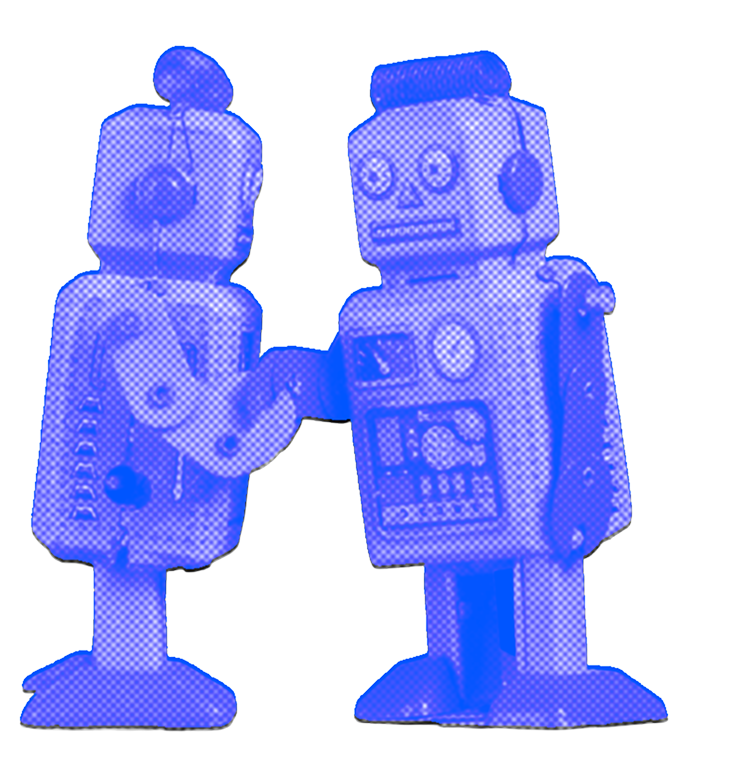
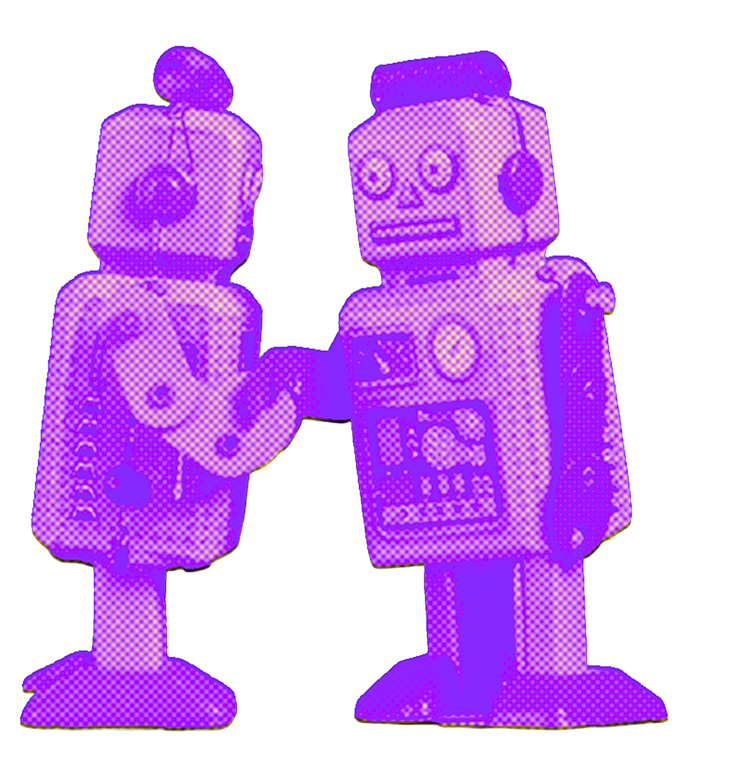
fix: flutter landing page colours to match the revised design
The port inherited droidcon's palette in several places. Against the
flutter frames:

- Dark backgrounds were inconsistent: the `dark` token was still the
  pre-rebrand #20201E, so sections using dark:bg-dark rendered charcoal
  next to the pure-black ones. Now #000000, matching droidconKE.
- About stats panel and the Developer Days card invert between themes —
  black with magenta figures in light, magenta with black/white in dark.
- Beyond the Sessions heading is white, not the accent colour.
- Past events header is a magenta card with a white heading, not blue
  with an accent heading.
- Community Partners heading is black, not blue.
- Conf. Essentials icons recoloured from droidcon green to #F73EDE.
- Sponsor tier dividers used border-green-500, but this repo has no
  green ramp, so it silently fell back to Tailwind's default green.
  Now border-accent. The green in the frames is a design glitch.
- Stat cards had a vertical divider that the design does not have.

Adds magenta halftones for the robots and astronauts, and a pink KICC
for the dark-mode footer. Those three files now differ from droidconKE
and must not be copied between repos.

diff --git a/components/home/SponsorsList.tsx b/components/home/SponsorsList.tsx
@@ -113,7 +113,7 @@ function SponsorsList({
         <div className="flex flex-col w-full">
           {/* Platinum Tier */}
           {platinumSponsors.length > 0 && (
-            <div className="flex flex-col items-center gap-4 border-t border-dotted border-green-500 pt-8 pb-10">
+            <div className="flex flex-col items-center gap-4 border-t border-dotted border-accent pt-8 pb-10">
               <h3 className="text-black dark:text-white text-lg md:text-xl font-semibold mb-2 capitalize">
                 Platinum
               </h3>
@@ -131,7 +131,7 @@ function SponsorsList({
 
           {/* Gold Tier */}
           {goldSponsors.length > 0 && (
-            <div className="flex flex-col items-center border-t border-dotted border-green-500 pt-8 pb-10 w-full">
+            <div className="flex flex-col items-center border-t border-dotted border-accent pt-8 pb-10 w-full">
               <h3 className="text-black dark:text-white text-lg md:text-xl font-semibold mb-4 capitalize">
                 Gold
               </h3>
@@ -154,7 +154,7 @@ function SponsorsList({
 
           {/* Everything else — silver, then bronze, then snack */}
           {remainingSponsors.length > 0 && (
-            <div className="flex flex-wrap justify-center gap-6 w-full border-t border-dotted border-green-500 pt-8 pb-10">
+            <div className="flex flex-wrap justify-center gap-6 w-full border-t border-dotted border-accent pt-8 pb-10">
               {remainingSponsors.map((sponsor) => (
                 <div
                   key={sponsor.name}
@@ -173,7 +173,7 @@ function SponsorsList({
             </div>
           )}
 
-          <div className="flex justify-center border-t border-dotted border-green-500 pt-10">
+          <div className="flex justify-center border-t border-dotted border-accent pt-10">
             <Link href="/sponsors" className="btn-accent whitespace-nowrap">
               SPONSOR FLUTTERCONKE
             </Link>

diff --git a/components/home/About.tsx b/components/home/About.tsx
@@ -13,7 +13,7 @@ const About = () => {
       <div className="flex flex-col md:flex-row w-full rounded-3xl overflow-hidden shadow-xl">
         {/* Left Column (Blue) */}
         <div className="w-full md:w-[55%] bg-primary p-8 md:p-10 lg:p-12 flex flex-col justify-center">
-          <h2 className="text-accent text-5xl md:text-7xl font-display leading-none mb-8">
+          <h2 className="text-accent dark:text-white text-5xl md:text-7xl font-display leading-none mb-8">
             About
             <br />
             FlutterconKE
@@ -31,19 +31,21 @@ const About = () => {
           </p>
         </div>
 
-        {/* Right Column (Accent) — 2x2 split by hairlines */}
-        <div className="w-full md:w-[45%] bg-accent grid grid-cols-2">
+        {/* Right Column — 2x2 split by blue hairlines. Inverts between themes
+            in the design: black panel with magenta figures in light, magenta
+            panel with white figures in dark. */}
+        <div className="w-full md:w-[45%] bg-black-dark dark:bg-accent grid grid-cols-2">
           {statsBoxes.map((box, index) => (
             <div
               key={box.value}
               className={`p-6 md:p-8 lg:p-10 flex flex-col justify-center ${
-                index % 2 === 0 ? 'border-r border-primary' : ''
-              } ${index < 2 ? 'border-b border-primary' : ''}`}
+                index < 2 ? 'border-b border-primary' : ''
+              }`}
             >
-              <div className="text-primary text-3xl md:text-5xl lg:text-6xl font-display mb-2">
+              <div className="text-accent dark:text-white text-3xl md:text-5xl lg:text-6xl font-display mb-2">
                 {box.value}
               </div>
-              <div className="text-primary text-[10px] md:text-xs uppercase">
+              <div className="text-accent dark:text-white text-[10px] md:text-xs uppercase">
                 {box.label}
               </div>
             </div>

diff --git a/components/home/ConfHighlights.tsx b/components/home/ConfHighlights.tsx
@@ -9,7 +9,7 @@ const highlights = [
     image: '/images/new-design/revised/beyond-sessions.png',
     imageAlt: 'Two toy robots shaking hands',
     cardClass: 'bg-primary',
-    titleClass: 'text-accent',
+    titleClass: 'text-white dark:text-white',
     // Card colours are fixed in both themes, so dark: variants pin the text
     // against the global `p` rule.
     bodyClass: 'text-white dark:text-white',
@@ -21,9 +21,11 @@ const highlights = [
     body: 'Level up across two days of hardcore Flutter and Dart sessions. From cross-platform performance to AI agents and tooling, get real-world insights from top-tier engineers shaping the ecosystem.',
     image: '/images/new-design/revised/dev-days.png',
     imageAlt: 'Two astronauts holding hands',
-    cardClass: 'bg-accent',
-    titleClass: 'text-primary',
-    bodyClass: 'text-black dark:text-black',
+    // Inverts between themes in the design: black card with a magenta
+    // heading in light, magenta card with a black heading in dark.
+    cardClass: 'bg-black-dark dark:bg-accent',
+    titleClass: 'text-accent dark:text-black',
+    bodyClass: 'text-white dark:text-black',
     imageFirst: true,
   },
 ]

diff --git a/components/home/Gallery.tsx b/components/home/Gallery.tsx
@@ -31,13 +31,13 @@ export const Gallery = () => {
   return (
     <section className="s-container w-full h-auto bg-white dark:bg-black-dark py-10 md:py-20 transition-colors">
       {/* Header Block */}
-      <div className="w-full bg-primary dark:bg-primary-dark rounded-[20px] p-8 mb-12 md:mb-16">
+      <div className="w-full bg-accent dark:bg-accent-dark rounded-[20px] p-8 mb-12 md:mb-16">
         <div className="flex items-center text-white text-sm md:text-base font-medium mb-4 md:mb-6 opacity-90">
           <div className="w-6 md:w-8 h-px bg-white mr-3" />
           Past fluttercon events
         </div>
         {/* Sized to always fit on one line up to extra large screens */}
-        <h2 className="text-accent text-3xl sm:text-4xl md:text-5xl lg:text-6xl xl:text-[72px] leading-tight font-display whitespace-nowrap">
+        <h2 className="text-white dark:text-white text-3xl sm:text-4xl md:text-5xl lg:text-6xl xl:text-[72px] leading-tight font-display whitespace-nowrap">
           Past fluttercon events
         </h2>
       </div>

diff --git a/components/layouts/components/Footer.tsx b/components/layouts/components/Footer.tsx
@@ -43,7 +43,13 @@ export const Footer = () => {
                 src="/images/new-design/revised/new-footer-2.png"
                 alt=""
                 aria-hidden="true"
-                className="w-[80%] md:w-[70%] h-auto mx-auto object-contain"
+                className="w-[80%] md:w-[70%] h-auto mx-auto object-contain dark:hidden block"
+              />
+              <img
+                src="/images/new-design/revised/new-footer-pink.png"
+                alt=""
+                aria-hidden="true"
+                className="w-[80%] md:w-[70%] h-auto mx-auto object-contain hidden dark:block"
               />
               <img
                 src="/images/new-design/logo-light.svg"

diff --git a/components/home/Organizers.tsx b/components/home/Organizers.tsx
@@ -4,7 +4,7 @@ function Organizers({ organizers }: { organizers: Organizer[] }) {
   return (
     <section className="s-container w-full h-auto bg-white dark:bg-dark pt-10 md:pt-20 pb-16 transition-colors">
       <div className="w-full bg-accent rounded-[32px] p-8 md:p-12">
-        <h2 className="text-primary text-3xl sm:text-4xl md:text-5xl lg:text-6xl leading-tight font-display mb-8 md:mb-12">
+        <h2 className="text-black dark:text-black text-3xl sm:text-4xl md:text-5xl lg:text-6xl leading-tight font-display mb-8 md:mb-12">
           Our Community Partners
         </h2>
 

diff --git a/tailwind.config.js b/tailwind.config.js
@@ -32,7 +32,7 @@ module.exports = {
         'accent-dark': '#F73EDE',
         'white-dark': '#ffffff',
         // for white bgs in dark
-        dark: '#20201E',
+        dark: '#000000',
         'lighter-dark': '#F5F5F5',
         'light-dark': '#707070',
         'darker-dark': '#191D1D',

diff --git a/docs/design/REDESIGN-PLAN.md b/docs/design/REDESIGN-PLAN.md
@@ -143,12 +143,14 @@ Ported from droidconKE, which carries the authoritative write-up: see **section 
 
 ### Assets
 
-| Asset                                                                              | Origin                                                         |
-| ---------------------------------------------------------------------------------- | -------------------------------------------------------------- |
-| `revised/fcke-square.png` (2524²)                                                  | Flutter-specific — feeds the whole `public/images/icons/` set  |
-| `revised/fcke-cover.png` (2400×800)                                                | Flutter-specific — `og:image` / `twitter:image`                |
-| `revised/beyond-sessions.png` · `dev-days.png` · `stacks.png` · `new-footer-2.png` | **Shared with droidconKE** — conference-neutral, keep in step  |
-| `logo-light.svg` / `logo-dark.svg`                                                 | Footer wordmark (droidcon uses `droidcon-large-*.svg` instead) |
+| Asset                                          | Origin                                                                                 |
+| ---------------------------------------------- | -------------------------------------------------------------------------------------- |
+| `revised/fcke-square.png` (2524²)              | Flutter-specific — feeds the whole `public/images/icons/` set                          |
+| `revised/fcke-cover.png` (2400×800)            | Flutter-specific — `og:image` / `twitter:image`                                        |
+| `revised/beyond-sessions.png` · `dev-days.png` | **Flutter-only** — magenta halftones. droidconKE's are blue; do NOT copy between repos |
+| `revised/new-footer-pink.png`                  | **Flutter-only** — dark-mode KICC. Light mode uses the shared blue `new-footer-2.png`  |
+| `revised/stacks.png` · `new-footer-2.png`      | **Shared with droidconKE** — keep in step                                              |
+| `logo-light.svg` / `logo-dark.svg`             | Footer wordmark (droidcon uses `droidcon-large-*.svg` instead)                         |
 
 The cover was exported at 4501px and is **resized to 2400** — Twitter rejects `summary_large_image` above 4096px. Its 3:1 ratio is wider than OG's 1.91:1, so keep key content vertically centred.
 
@@ -158,6 +160,12 @@ Brand colours that were still pre-rebrand and are now `#008BFF`: `manifest.json`
 
 - **Editions:** `3RD · ANNUAL`, stats `3RD FLUTTERCON EDITION` / `7TH DROIDCON EDITION`. Conferences read `FLUTTER · DROIDCON`.
 - **Hero gradient** uses the flutter ramp (`#008BFF → #F73EDE`) rather than droidcon's `#0055FF → #FF57E9`.
+- **Two blocks invert between themes** — this is deliberate in the design, not a dark-mode bug:
+  - About stats panel: black with magenta figures in light, magenta with white figures in dark.
+  - Developer Days card: black with a magenta heading in light, magenta with a black heading in dark.
+- **Beyond the Sessions** has a **white** heading, not the accent colour droidcon uses.
+- **Community Partners** heading is black on the magenta card, not blue.
+- **Conf. Essentials icons** were recoloured from droidcon green `#01FF4F` to `#F73EDE` in `public/images/svg/`.
 - **"Beyond Stacks"** is the shared 2026 theme and is deliberately identical across both sites.
 - **CFP / Speakers commented out**, same as droidcon — both return next year.
 - **Conf. Highlights copy is drafted, not designed.** The joint-track line points at DroidconKE, and "Developer Days" was rewritten around Flutter/Dart. Needs a content review.
